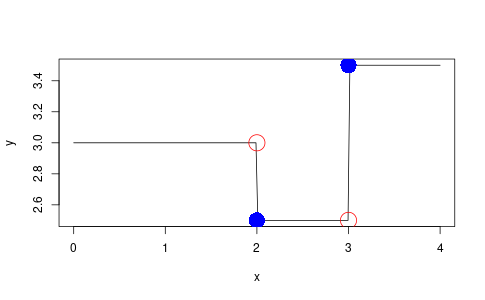
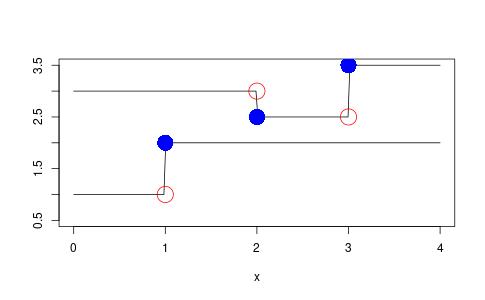
update website thursday  1:24 pm

diff --git a/notes/r-notes.html b/notes/r-notes.html
@@ -3,7 +3,7 @@
 "http://www.w3.org/TR/xhtml1/DTD/xhtml1-strict.dtd">
 <html xmlns="http://www.w3.org/1999/xhtml" lang="en" xml:lang="en">
 <head>
-<!-- 2022-03-23 Wed 17:08 -->
+<!-- 2022-03-24 Thu 12:59 -->
 <meta http-equiv="Content-Type" content="text/html;charset=utf-8" />
 <meta name="viewport" content="width=device-width, initial-scale=1" />
 <title>r-lang-aez-notes</title>
@@ -299,7 +299,7 @@
 </div>
 
 
-<div id="org4967643" class="figure">
+<div id="org2a091a9" class="figure">
 <p><img src="../images/r-logo.png" alt="r-logo.png" width="250px" />
 </p>
 </div>
@@ -709,7 +709,7 @@ Casting is difficult, this figure made by <a href="https://seananderson.ca/2013/
 </p>
 
 
-<div id="org8a79b7e" class="figure">
+<div id="org9ad1923" class="figure">
 <p><img src="../images/dcast-illustration.png" alt="dcast-illustration.png" width="700px" />
 </p>
 </div>
@@ -827,9 +827,9 @@ There is the <code>htmltools</code> package for generating HTML in R.
 </p>
 </div>
 
-<div id="outline-container-org8292fda" class="outline-4">
-<h4 id="org8292fda">Example</h4>
-<div class="outline-text-4" id="text-org8292fda">
+<div id="outline-container-orga6ca707" class="outline-4">
+<h4 id="orga6ca707">Example</h4>
+<div class="outline-text-4" id="text-orga6ca707">
 <div class="org-src-container">
 <pre class="src src-R"><span style="color: #3a81c3;">library</span><span style="color: #3a81c3;">(</span>htmltools<span style="color: #3a81c3;">)</span>
 
@@ -1244,9 +1244,9 @@ which produces <code>demo3.xml</code> shown below
 <h3 id="org4b67e7d">Working with Mustache templates</h3>
 <div class="outline-text-3" id="text-org4b67e7d">
 </div>
-<div id="outline-container-orga6ca707" class="outline-4">
-<h4 id="orga6ca707">Example</h4>
-<div class="outline-text-4" id="text-orga6ca707">
+<div id="outline-container-org73a27dd" class="outline-4">
+<h4 id="org73a27dd">Example</h4>
+<div class="outline-text-4" id="text-org73a27dd">
 <div class="org-src-container">
 <pre class="src src-R"><span style="color: #3a81c3;">library</span><span style="color: #3a81c3;">(</span>whisker<span style="color: #3a81c3;">)</span>
 
@@ -2264,6 +2264,10 @@ ggplot<span style="color: #3a81c3;">()</span> +
 <div id="outline-container-org6fc9f1f" class="outline-3">
 <h3 id="org6fc9f1f">Step function</h3>
 <div class="outline-text-3" id="text-org6fc9f1f">
+</div>
+<div id="outline-container-org04b9b6d" class="outline-4">
+<h4 id="org04b9b6d">Step function construction</h4>
+<div class="outline-text-4" id="text-org04b9b6d">
 <p>
 The following snippet defines a vectorised step function.
 </p>
@@ -2300,7 +2304,13 @@ The following snippet defines a vectorised step function.
     <span style="color: #3a81c3;">return</span><span style="color: #2d9574;">(</span>y<span style="color: #2d9574;">)</span>
   <span style="color: #6c3163;">}</span>
 
-  <span style="color: #3a81c3;">return</span><span style="color: #6c3163;">(</span>step_func<span style="color: #6c3163;">)</span>
+  <span style="color: #3a81c3;">return</span><span style="color: #6c3163;">(</span>
+    list<span style="color: #2d9574;">(</span>
+      func = step_func,
+      times = ts,
+      values = vs
+    <span style="color: #2d9574;">)</span>
+  <span style="color: #6c3163;">)</span>
 <span style="color: #3a81c3;">}</span>
 </pre>
 </div>
@@ -2310,19 +2320,27 @@ Here is a demonstration of it in action producing Figure <a href="#orgb003d15">X
 </p>
 
 <div class="org-src-container">
-<pre class="src src-R">ts <span style="color: #ba2f59; font-weight: bold;">&lt;-</span> c<span style="color: #3a81c3;">(</span><span style="color: #4e3163;">2.0</span>, <span style="color: #4e3163;">3.0</span><span style="color: #3a81c3;">)</span>
-vs <span style="color: #ba2f59; font-weight: bold;">&lt;-</span> c<span style="color: #3a81c3;">(</span><span style="color: #4e3163;">3.0</span>, <span style="color: #4e3163;">2.5</span>, <span style="color: #4e3163;">3.5</span><span style="color: #3a81c3;">)</span>
-demo_func <span style="color: #ba2f59; font-weight: bold;">&lt;-</span> step_function_factory<span style="color: #3a81c3;">(</span>ts, vs<span style="color: #3a81c3;">)</span>
+<pre class="src src-R">t1s <span style="color: #ba2f59; font-weight: bold;">&lt;-</span> c<span style="color: #3a81c3;">(</span><span style="color: #4e3163;">2.0</span>, <span style="color: #4e3163;">3.0</span><span style="color: #3a81c3;">)</span>
+v1s <span style="color: #ba2f59; font-weight: bold;">&lt;-</span> c<span style="color: #3a81c3;">(</span><span style="color: #4e3163;">3.0</span>, <span style="color: #4e3163;">2.5</span>, <span style="color: #4e3163;">3.5</span><span style="color: #3a81c3;">)</span>
+demo1 <span style="color: #ba2f59; font-weight: bold;">&lt;-</span> step_function_factory<span style="color: #3a81c3;">(</span>t1s, v1s<span style="color: #3a81c3;">)</span>
+t2s <span style="color: #ba2f59; font-weight: bold;">&lt;-</span> c<span style="color: #3a81c3;">(</span><span style="color: #4e3163;">1.0</span><span style="color: #3a81c3;">)</span>
+v2s <span style="color: #ba2f59; font-weight: bold;">&lt;-</span> c<span style="color: #3a81c3;">(</span><span style="color: #4e3163;">1.0</span>, <span style="color: #4e3163;">2.0</span><span style="color: #3a81c3;">)</span>
+demo2 <span style="color: #ba2f59; font-weight: bold;">&lt;-</span> step_function_factory<span style="color: #3a81c3;">(</span>t2s, v2s<span style="color: #3a81c3;">)</span>
+
 x <span style="color: #ba2f59; font-weight: bold;">&lt;-</span> seq<span style="color: #3a81c3;">(</span>from = <span style="color: #4e3163;">0</span>, to = <span style="color: #4e3163;">4</span>, length = <span style="color: #4e3163;">200</span><span style="color: #3a81c3;">)</span>
-y <span style="color: #ba2f59; font-weight: bold;">&lt;-</span> demo_func<span style="color: #3a81c3;">(</span>xx<span style="color: #3a81c3;">)</span>
+y1 <span style="color: #ba2f59; font-weight: bold;">&lt;-</span> demo1$func<span style="color: #3a81c3;">(</span>x<span style="color: #3a81c3;">)</span>
+y2 <span style="color: #ba2f59; font-weight: bold;">&lt;-</span> demo2$func<span style="color: #3a81c3;">(</span>x<span style="color: #3a81c3;">)</span>
 
 png<span style="color: #3a81c3;">(</span><span style="color: #2d9574;">'step-function-demo.png'</span>,
     width = <span style="color: #4e3163;">1.618</span> * <span style="color: #4e3163;">300</span>,
     height = <span style="color: #4e3163;">300</span>,
     units = <span style="color: #2d9574;">"px"</span><span style="color: #3a81c3;">)</span>
-plot<span style="color: #3a81c3;">(</span>x, y, <span style="color: #2d9574;">'l'</span>, col = <span style="color: #2d9574;">'black'</span><span style="color: #3a81c3;">)</span>
-points<span style="color: #3a81c3;">(</span>ts, demo_func<span style="color: #6c3163;">(</span>ts<span style="color: #6c3163;">)</span>, col = <span style="color: #2d9574;">'blue'</span>, cex = <span style="color: #4e3163;">3</span>, pch = <span style="color: #4e3163;">16</span><span style="color: #3a81c3;">)</span>
-points<span style="color: #3a81c3;">(</span>ts, demo_func<span style="color: #6c3163;">(</span>ts - <span style="color: #4e3163;">1e</span>-<span style="color: #4e3163;">10</span><span style="color: #6c3163;">)</span>, col = <span style="color: #2d9574;">'red'</span>, cex = <span style="color: #4e3163;">3</span>, pch = <span style="color: #4e3163;">1</span><span style="color: #3a81c3;">)</span>
+plot<span style="color: #3a81c3;">(</span>x, y1, <span style="color: #2d9574;">'l'</span>, col = <span style="color: #2d9574;">'black'</span>, ylab = <span style="color: #2d9574;">""</span>, ylim = c<span style="color: #6c3163;">(</span><span style="color: #4e3163;">0.5</span>, <span style="color: #4e3163;">3.5</span><span style="color: #6c3163;">)</span><span style="color: #3a81c3;">)</span>
+lines<span style="color: #3a81c3;">(</span>x, y2, col = <span style="color: #2d9574;">'black'</span><span style="color: #3a81c3;">)</span>
+points<span style="color: #3a81c3;">(</span>t1s, demo1$func<span style="color: #6c3163;">(</span>t1s<span style="color: #6c3163;">)</span>, col = <span style="color: #2d9574;">'blue'</span>, cex = <span style="color: #4e3163;">3</span>, pch = <span style="color: #4e3163;">16</span><span style="color: #3a81c3;">)</span>
+points<span style="color: #3a81c3;">(</span>t1s, demo1$func<span style="color: #6c3163;">(</span>t1s - <span style="color: #4e3163;">1e</span>-<span style="color: #4e3163;">10</span><span style="color: #6c3163;">)</span>, col = <span style="color: #2d9574;">'red'</span>, cex = <span style="color: #4e3163;">3</span>, pch = <span style="color: #4e3163;">1</span><span style="color: #3a81c3;">)</span>
+points<span style="color: #3a81c3;">(</span>t2s, demo2$func<span style="color: #6c3163;">(</span>t2s<span style="color: #6c3163;">)</span>, col = <span style="color: #2d9574;">'blue'</span>, cex = <span style="color: #4e3163;">3</span>, pch = <span style="color: #4e3163;">16</span><span style="color: #3a81c3;">)</span>
+points<span style="color: #3a81c3;">(</span>t2s, demo2$func<span style="color: #6c3163;">(</span>t2s - <span style="color: #4e3163;">1e</span>-<span style="color: #4e3163;">10</span><span style="color: #6c3163;">)</span>, col = <span style="color: #2d9574;">'red'</span>, cex = <span style="color: #4e3163;">3</span>, pch = <span style="color: #4e3163;">1</span><span style="color: #3a81c3;">)</span>
 dev.off<span style="color: #3a81c3;">()</span>
 </pre>
 </div>
@@ -2335,11 +2353,78 @@ dev.off<span style="color: #3a81c3;">()</span>
 </div>
 </div>
 </div>
+
+<div id="outline-container-org7556ef9" class="outline-4">
+<h4 id="org7556ef9">Applying binary functions to step functions</h4>
+<div class="outline-text-4" id="text-org7556ef9">
+<p>
+The class of step functions is closed under the point-wise application of binary
+functions. What? This means if you have two functions \(f(x)\) and \(g(x)\)
+which are step functions, then \(h(x) := f(x) + g(x) \) is also a step function,
+and more generally \(h^{F}(x) := F(f(x), g(x))\) is a step function given some
+binary function \(F\). This can be implemented as follows
+</p>
+
+<div class="org-src-container">
+<pre class="src src-R"><span style="color: #2aa1ae; background-color: #ecf3ec; font-weight: bold;">#</span><span style="color: #2aa1ae; background-color: #ecf3ec; font-weight: bold;">'</span><span style="color: #2aa1ae; background-color: #ecf3ec;"> Return a vectorised step function resulting from the point-wise application</span>
+<span style="color: #2aa1ae; background-color: #ecf3ec; font-weight: bold;">#</span><span style="color: #2aa1ae; background-color: #ecf3ec; font-weight: bold;">'</span><span style="color: #2aa1ae; background-color: #ecf3ec;"> of a binary function to two step functions.</span>
+<span style="color: #2aa1ae; background-color: #ecf3ec; font-weight: bold;">#</span><span style="color: #2aa1ae; background-color: #ecf3ec; font-weight: bold;">'</span>
+<span style="color: #2aa1ae; background-color: #ecf3ec; font-weight: bold;">#</span><span style="color: #2aa1ae; background-color: #ecf3ec; font-weight: bold;">'</span><span style="color: #2aa1ae; background-color: #ecf3ec;"> </span><span style="color: #3a81c3; background-color: #ecf3ec;">@param</span><span style="color: #2aa1ae; background-color: #ecf3ec;"> </span><span style="color: #715ab1; background-color: #ecf3ec;">step_func_a</span><span style="color: #2aa1ae; background-color: #ecf3ec;"> a step function (see \code{step_function_factory}.)</span>
+<span style="color: #2aa1ae; background-color: #ecf3ec; font-weight: bold;">#</span><span style="color: #2aa1ae; background-color: #ecf3ec; font-weight: bold;">'</span><span style="color: #2aa1ae; background-color: #ecf3ec;"> </span><span style="color: #3a81c3; background-color: #ecf3ec;">@param</span><span style="color: #2aa1ae; background-color: #ecf3ec;"> </span><span style="color: #715ab1; background-color: #ecf3ec;">step_func_b</span><span style="color: #2aa1ae; background-color: #ecf3ec;"> a step function (see \code{step_function_factory}.)</span>
+<span style="color: #2aa1ae; background-color: #ecf3ec; font-weight: bold;">#</span><span style="color: #2aa1ae; background-color: #ecf3ec; font-weight: bold;">'</span><span style="color: #2aa1ae; background-color: #ecf3ec;"> </span><span style="color: #3a81c3; background-color: #ecf3ec;">@param</span><span style="color: #2aa1ae; background-color: #ecf3ec;"> </span><span style="color: #715ab1; background-color: #ecf3ec;">binary_func</span><span style="color: #2aa1ae; background-color: #ecf3ec;"> a binary function.</span>
+<span style="color: #2aa1ae; background-color: #ecf3ec; font-weight: bold;">#</span><span style="color: #2aa1ae; background-color: #ecf3ec; font-weight: bold;">'</span>
+<span style="color: #6c3163; font-weight: bold;">map_step_function</span> <span style="color: #ba2f59; font-weight: bold;">&lt;-</span> <span style="color: #3a81c3;">function</span><span style="color: #3a81c3;">(</span>step_func_a, step_func_b, binary_func<span style="color: #3a81c3;">)</span> <span style="color: #3a81c3;">{</span>
+  times_c <span style="color: #ba2f59; font-weight: bold;">&lt;-</span> sort<span style="color: #6c3163;">(</span>union<span style="color: #2d9574;">(</span>step_func_a$times, step_func_b$times<span style="color: #2d9574;">)</span><span style="color: #6c3163;">)</span>
+  n <span style="color: #ba2f59; font-weight: bold;">&lt;-</span> length<span style="color: #6c3163;">(</span>times_c<span style="color: #6c3163;">)</span>
+  values_c <span style="color: #ba2f59; font-weight: bold;">&lt;-</span> numeric<span style="color: #6c3163;">(</span>n + <span style="color: #4e3163;">1</span><span style="color: #6c3163;">)</span>
+  values_c<span style="color: #6c3163;">[</span><span style="color: #4e3163;">1</span><span style="color: #6c3163;">]</span> <span style="color: #ba2f59; font-weight: bold;">&lt;-</span> binary_func<span style="color: #6c3163;">(</span>
+    step_func_a$func<span style="color: #2d9574;">(</span>step_func_a$times<span style="color: #67b11d;">[</span><span style="color: #4e3163;">1</span><span style="color: #67b11d;">]</span> - <span style="color: #4e3163;">1</span><span style="color: #2d9574;">)</span>,
+    step_func_b$func<span style="color: #2d9574;">(</span>step_func_b$times<span style="color: #67b11d;">[</span><span style="color: #4e3163;">1</span><span style="color: #67b11d;">]</span> - <span style="color: #4e3163;">1</span><span style="color: #2d9574;">)</span>
+  <span style="color: #6c3163;">)</span>
+  <span style="color: #3a81c3;">for</span> <span style="color: #6c3163;">(</span>ix <span style="color: #3a81c3;">in</span> seq.int<span style="color: #2d9574;">(</span>n<span style="color: #2d9574;">)</span><span style="color: #6c3163;">)</span> <span style="color: #6c3163;">{</span>
+    values_c<span style="color: #2d9574;">[</span>ix+<span style="color: #4e3163;">1</span><span style="color: #2d9574;">]</span> <span style="color: #ba2f59; font-weight: bold;">&lt;-</span> binary_func<span style="color: #2d9574;">(</span>
+      step_func_a$func<span style="color: #67b11d;">(</span>times_c<span style="color: #b1951d;">[</span>ix<span style="color: #b1951d;">]</span><span style="color: #67b11d;">)</span>,
+      step_func_b$func<span style="color: #67b11d;">(</span>times_c<span style="color: #b1951d;">[</span>ix<span style="color: #b1951d;">]</span><span style="color: #67b11d;">)</span>
+    <span style="color: #2d9574;">)</span>
+  <span style="color: #6c3163;">}</span>
+  <span style="color: #3a81c3;">return</span><span style="color: #6c3163;">(</span>step_function_factory<span style="color: #2d9574;">(</span>times_c, values_c<span style="color: #2d9574;">)</span><span style="color: #6c3163;">)</span>
+<span style="color: #3a81c3;">}</span>
+</pre>
+</div>
+
+<p>
+Here is a demonstration of it in action producing Figure [[fig:step-function-binary][Y]
+</p>
+
+<div class="org-src-container">
+<pre class="src src-R">demo3 <span style="color: #ba2f59; font-weight: bold;">&lt;-</span> map_step_function<span style="color: #3a81c3;">(</span>demo1, demo2, <span style="color: #3a81c3;">function</span><span style="color: #6c3163;">(</span>x, y<span style="color: #6c3163;">)</span> <span style="color: #6c3163;">{</span> x / y <span style="color: #6c3163;">}</span><span style="color: #3a81c3;">)</span>
+y3 <span style="color: #ba2f59; font-weight: bold;">&lt;-</span> demo3$func<span style="color: #3a81c3;">(</span>x<span style="color: #3a81c3;">)</span>
+
+png<span style="color: #3a81c3;">(</span><span style="color: #2d9574;">'step-function-binary-demo.png'</span>,
+    width = <span style="color: #4e3163;">1.618</span> * <span style="color: #4e3163;">300</span>,
+    height = <span style="color: #4e3163;">300</span>,
+    units = <span style="color: #2d9574;">"px"</span><span style="color: #3a81c3;">)</span>
+plot<span style="color: #3a81c3;">(</span>x, y3, <span style="color: #2d9574;">'l'</span>, col = <span style="color: #2d9574;">'black'</span>, ylab = <span style="color: #2d9574;">""</span><span style="color: #3a81c3;">)</span>
+points<span style="color: #3a81c3;">(</span>t3s, demo3$func<span style="color: #6c3163;">(</span>t3s<span style="color: #6c3163;">)</span>, col = <span style="color: #2d9574;">'blue'</span>, cex = <span style="color: #4e3163;">3</span>, pch = <span style="color: #4e3163;">16</span><span style="color: #3a81c3;">)</span>
+points<span style="color: #3a81c3;">(</span>t3s, demo3$func<span style="color: #6c3163;">(</span>t3s - <span style="color: #4e3163;">1e</span>-<span style="color: #4e3163;">10</span><span style="color: #6c3163;">)</span>, col = <span style="color: #2d9574;">'red'</span>, cex = <span style="color: #4e3163;">3</span>, pch = <span style="color: #4e3163;">1</span><span style="color: #3a81c3;">)</span>
+dev.off<span style="color: #3a81c3;">()</span>
+</pre>
+</div>
+
+
+<div id="orgaad5406" class="figure">
+<p><img src="../images/step-function-binary-demo.png" alt="step-function-binary-demo.png" width="400px" />
+</p>
+<p><span class="figure-number">Figure 2: </span>The result of combining two step functions.</p>
+</div>
+</div>
+</div>
+</div>
 </div>
 </div>
 <div id="postamble" class="status">
 <p class="author">Author: Alex Zarebski</p>
-<p class="date">Created: 2022-03-23 Wed 17:08</p>
+<p class="date">Created: 2022-03-24 Thu 12:59</p>
 <p class="validation"><a href="https://validator.w3.org/check?uri=referer">Validate</a></p>
 </div>
 </body>

diff --git a/notes/wikipedia-notes.html b/notes/wikipedia-notes.html
@@ -3,7 +3,7 @@
 "http://www.w3.org/TR/xhtml1/DTD/xhtml1-strict.dtd">
 <html xmlns="http://www.w3.org/1999/xhtml" lang="en" xml:lang="en">
 <head>
-<!-- 2022-03-15 Tue 13:57 -->
+<!-- 2022-03-24 Thu 12:59 -->
 <meta http-equiv="Content-Type" content="text/html;charset=utf-8" />
 <meta name="viewport" content="width=device-width, initial-scale=1" />
 <title>wikipedia-aez-notes</title>
@@ -227,19 +227,44 @@
 <div id="outline-container-org76b3356" class="outline-3">
 <h3 id="org76b3356">Articles</h3>
 <div class="outline-text-3" id="text-org76b3356">
-<ul class="org-ul">
-<li>You can use <code>{{ref|LastnameYY}}</code> to reference listed sources.</li>
-<li>There is a Citation expander gadget which greatly simplifies the process of
+</div>
+<div id="outline-container-orgb0b1239" class="outline-4">
+<h4 id="orgb0b1239">Naming References</h4>
+<div class="outline-text-4" id="text-orgb0b1239">
+<p>
+To reference the same article multiple times, on the first use wrap it in a <code>ref</code>
+tag with a <code>name</code> attribute, on subsequent usages you can reference it by that
+name in another <code>ref</code> tag. For example:
+</p>
+
+<div class="org-src-container">
+<pre class="src src-html">Things happened&lt;<span style="color: #6c3163; font-weight: bold;">ref</span> <span style="color: #715ab1;">name</span>=<span style="color: #2d9574;">"smith2000things"</span>&gt;CITATION&lt;/<span style="color: #6c3163; font-weight: bold;">ref</span>&gt;. Some of the things were good&lt;<span style="color: #6c3163; font-weight: bold;">ref</span> <span style="color: #715ab1;">name</span>=<span style="color: #2d9574;">"smith2000things"</span> /&gt;.
+</pre>
+</div>
+
+<p>
+where the <code>CITATION</code> is the full citation curly brace business.
+</p>
+</div>
+</div>
+
+<div id="outline-container-org2a98d17" class="outline-4">
+<h4 id="org2a98d17">Citation Gadget</h4>
+<div class="outline-text-4" id="text-org2a98d17">
+<p>
+There is a Citation expander gadget which greatly simplifies the process of
 adding citations to articles. It is enabled though <b>Preferences</b> then <b>Gadgets</b>.
-Once it has been enabled, to add a citation of a journal article, you just
-need to add <code>{{cite journal |doi=10.1000/ABC123}</code> and then click the <i>Citations</i>
-button. There are other stubs that can be used:
+Once it has been enabled, to add a citation of a journal article, you just need
+to add <code>{{cite journal |doi=10.1000/ABC123}</code> and then click the <i>Citations</i> button.
+There are other stubs that can be used:
+</p>
+
 <ul class="org-ul">
 <li><code>{{cite journal |doi=10.1000/ABC123}}</code></li>
 <li><code>{{cite book |isbn=978-1-23-456789-0}}</code></li>
 <li><code>{{cite web |url=https://example.com}}</code></li>
-</ul></li>
 </ul>
+</div>
 </div>
 </div>
 
@@ -267,7 +292,7 @@ use on top of the Vector (2022) skin: <a href="https://en.wikipedia.org/wiki/Use
 </div>
 <div id="postamble" class="status">
 <p class="author">Author: Alex Zarebski</p>
-<p class="date">Created: 2022-03-15 Tue 13:57</p>
+<p class="date">Created: 2022-03-24 Thu 12:59</p>
 <p class="validation"><a href="https://validator.w3.org/check?uri=referer">Validate</a></p>
 </div>
 </body>

diff --git a/misc/tampermonkey/index.html b/misc/tampermonkey/index.html
@@ -3,7 +3,7 @@
 "http://www.w3.org/TR/xhtml1/DTD/xhtml1-strict.dtd">
 <html xmlns="http://www.w3.org/1999/xhtml" lang="en" xml:lang="en">
 <head>
-<!-- 2022-03-15 Tue 13:57 -->
+<!-- 2022-03-24 Thu 12:59 -->
 <meta http-equiv="Content-Type" content="text/html;charset=utf-8" />
 <meta name="viewport" content="width=device-width, initial-scale=1" />
 <title>tampermonkey-aez-notes</title>
@@ -205,15 +205,36 @@
 <div id="outline-container-org5105224" class="outline-2">
 <h2 id="org5105224">Tampermonkey</h2>
 <div class="outline-text-2" id="text-org5105224">
+</div>
+<div id="outline-container-orgdfd8cd6" class="outline-3">
+<h3 id="orgdfd8cd6">My scripts</h3>
+<div class="outline-text-3" id="text-orgdfd8cd6">
 <ul class="org-ul">
 <li><a href="./style-js4ds.user.js">Style JS4DS</a> - Make the site a little easier on the eye.</li>
 </ul>
 </div>
 </div>
+
+<div id="outline-container-orgca61f65" class="outline-3">
+<h3 id="orgca61f65">Ideas for scripts</h3>
+<div class="outline-text-3" id="text-orgca61f65">
+<p>
+Here are some ideas for scripts that I think would be nifty organised by my
+level of interest in them. If you are interested in collaborating on them,
+please get in touch!
+</p>
+
+<ol class="org-ol">
+<li>Extract track listing from Spotify playlist as sensible plain text.</li>
+<li>Add button to adjust tract and colour schemes to assist reading</li>
+</ol>
+</div>
+</div>
+</div>
 </div>
 <div id="postamble" class="status">
 <p class="author">Author: Alex Zarebski</p>
-<p class="date">Created: 2022-03-15 Tue 13:57</p>
+<p class="date">Created: 2022-03-24 Thu 12:59</p>
 <p class="validation"><a href="https://validator.w3.org/check?uri=referer">Validate</a></p>
 </div>
 </body>
